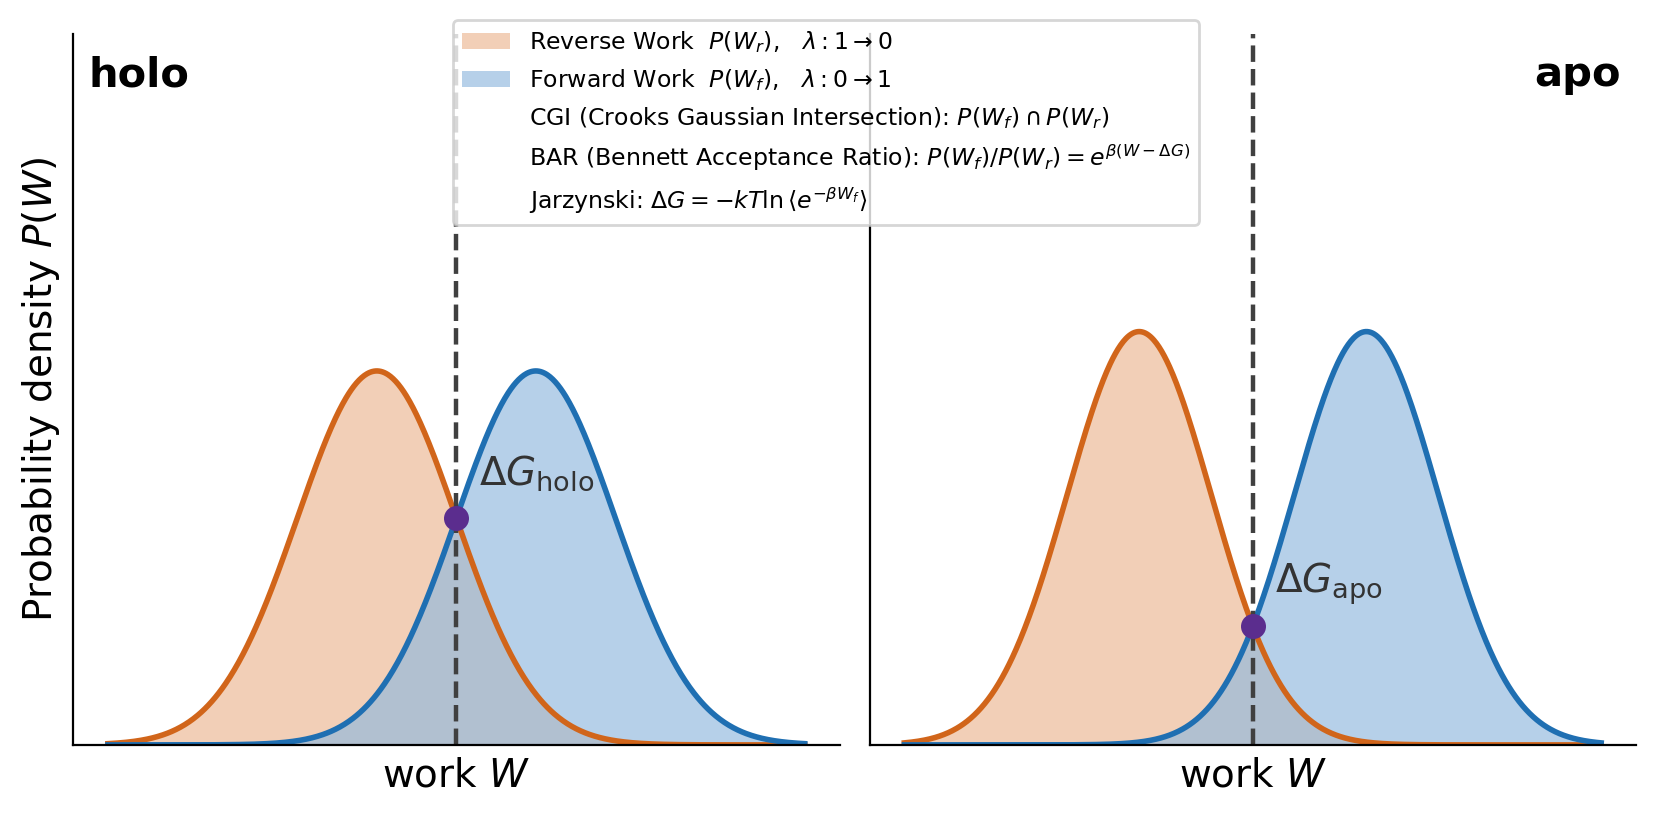
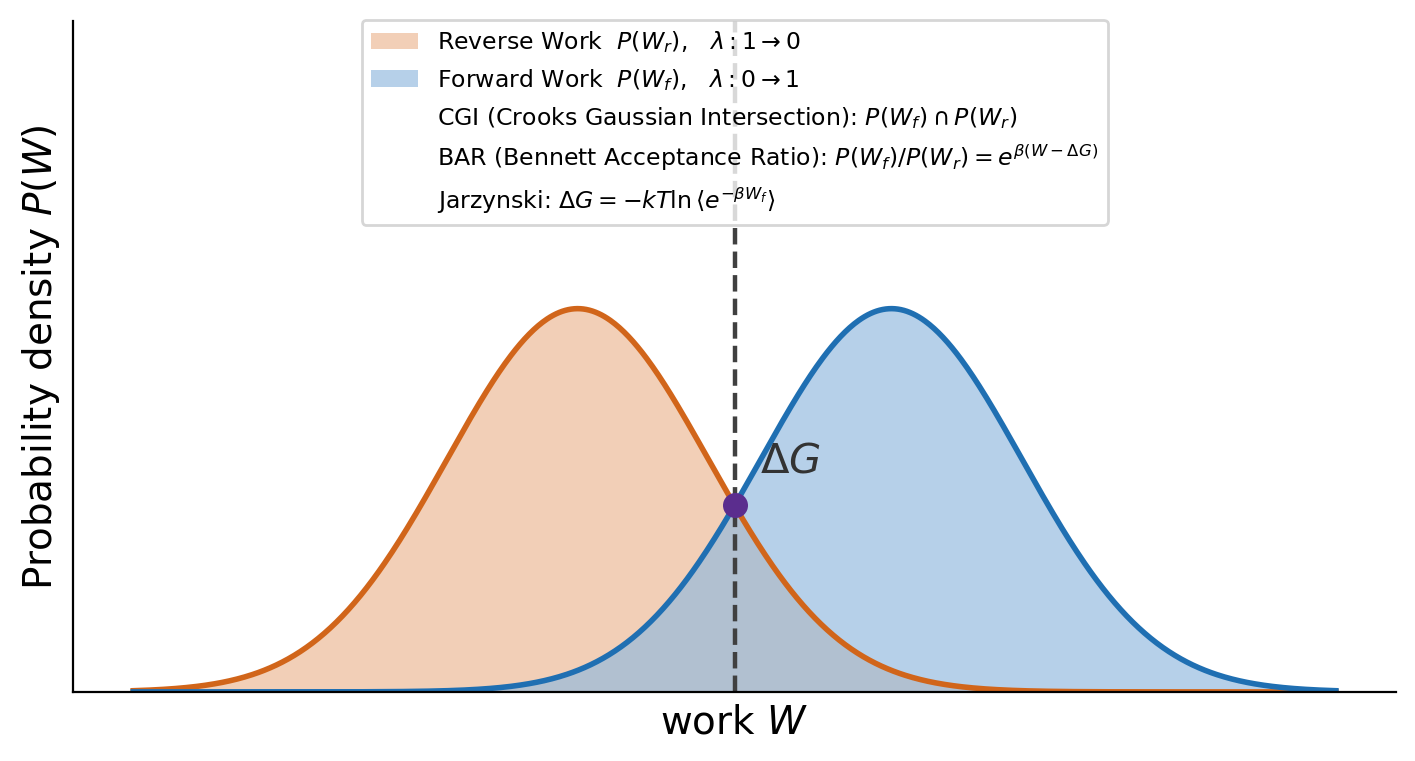
fep_pmx: collapse the work-distribution schematic to a single panel
holo and apo produce the same picture, so two panels were redundant once the panel
titles and the dG subscripts were dropped. The figure now shows what a NEQ leg looks
like generically; figure 01 remains where the holo and apo legs combine into
ddG_bind. 8.4x4.1 -> 7.2x3.9.

diff --git a/scripts/fep_pmx/plot_protocol_schematic.py b/scripts/fep_pmx/plot_protocol_schematic.py
@@ -197,57 +197,48 @@ def _gauss(x, mu, sigma):
 
 
 def plot_work_distributions(out_path: Path) -> None:
-    """Schematic Crooks histograms for holo and apo; estimators as equations.
+    """Schematic Crooks work distributions with the three estimators as equations.
 
-    Replaces the per-genotype 03_neq_work and 05_crooks_overlap figures. Shapes are
-    illustrative: holo is drawn with more forward/reverse overlap than apo, which is
-    the qualitative pattern in the real data, but no values are implied.
+    Replaces the per-genotype 03_neq_work and 05_crooks_overlap figures.
+
+    A SINGLE panel: holo and apo produce the same picture, so drawing both was
+    redundant once the panel titles and the dG subscripts were dropped. The figure
+    shows what a NEQ leg looks like generically; figure 01 is where the holo and apo
+    legs are combined into ddG_bind. Shapes are illustrative -- no values implied.
     """
-    fig, axes = plt.subplots(1, 2, figsize=(8.4, 4.1), sharey=True)
-    specs = [
-        # Titles sit at the OUTER top corner of each panel so the centred legend
-        # cannot cover them.
-        {"ax": axes[0], "title": "holo", "tx": 0.02, "ha": "left",
-         "dg": r"$\Delta G_{\mathrm{holo}}$",
-         "mu_f": 1.05, "mu_r": -1.05, "sig": 1.05},
-        {"ax": axes[1], "title": "apo", "tx": 0.98, "ha": "right",
-         "dg": r"$\Delta G_{\mathrm{apo}}$",
-         "mu_f": 1.5, "mu_r": -1.5, "sig": 0.95},
-    ]
+    fig, ax = plt.subplots(figsize=(7.2, 3.9))
+    mu_f, mu_r, sig = 1.2, -1.2, 1.0
     x = np.linspace(-4.6, 4.6, 800)
-    for sp in specs:
-        ax = sp["ax"]
-        yf = _gauss(x, sp["mu_f"], sp["sig"])
-        yr = _gauss(x, sp["mu_r"], sp["sig"])
-        ax.fill_between(x, yr, color="#e8a87c", alpha=0.55, lw=0, label=r"Reverse Work  $P(W_r)$,   $\lambda: 1 \rightarrow 0$")
-        ax.fill_between(x, yf, color="#8fb8de", alpha=0.65, lw=0, label=r"Forward Work  $P(W_f)$,   $\lambda: 0 \rightarrow 1$")
-        ax.plot(x, yr, color="#d1651a", lw=2.0)
-        ax.plot(x, yf, color="#1f6fb2", lw=2.0)
-        # The three estimators coincide at the crossing when the work is Gaussian;
-        # a single marker keeps the schematic honest rather than implying a spread.
-        ax.axvline(0.0, color="0.25", lw=1.6, ls="--")
-        ax.plot([0.0], [_gauss(0.0, sp["mu_f"], sp["sig"])], "o", color="#5b2d8e",
-                markersize=8, zorder=5)
-        ax.annotate(sp["dg"], (0.0, _gauss(0.0, sp["mu_f"], sp["sig"])),
-                    textcoords="offset points", xytext=(8, 12), fontsize=14,
-                    color="0.2", fontweight="bold")
-        # Headroom so the centred legend clears the curves instead of needing a
-        # whitespace band under the figure.
-        ax.set_ylim(0, _gauss(sp["mu_f"], sp["mu_f"], sp["sig"]) * 1.72)
-        ax.text(sp["tx"], 0.97, sp["title"], transform=ax.transAxes,
-                ha=sp["ha"], va="top", fontweight="bold", fontsize=15)
-        ax.set_xlabel("work $W$", fontsize=14)
-        ax.set_xticks([]); ax.set_yticks([])
-        for side in ("top", "right"):
-            ax.spines[side].set_visible(False)
-    axes[0].set_ylabel("Probability density $P(W)$", fontsize=14)
+    yf = _gauss(x, mu_f, sig)
+    yr = _gauss(x, mu_r, sig)
+    ax.fill_between(x, yr, color="#e8a87c", alpha=0.55, lw=0,
+                    label=r"Reverse Work  $P(W_r)$,   $\lambda: 1 \rightarrow 0$")
+    ax.fill_between(x, yf, color="#8fb8de", alpha=0.65, lw=0,
+                    label=r"Forward Work  $P(W_f)$,   $\lambda: 0 \rightarrow 1$")
+    ax.plot(x, yr, color="#d1651a", lw=2.0)
+    ax.plot(x, yf, color="#1f6fb2", lw=2.0)
 
-    handles, labels = axes[0].get_legend_handles_labels()
+    # The three estimators coincide at the crossing when the work is Gaussian; one
+    # marker keeps the schematic honest rather than implying a spread.
+    ax.axvline(0.0, color="0.25", lw=1.6, ls="--")
+    ax.plot([0.0], [_gauss(0.0, mu_f, sig)], "o", color="#5b2d8e", markersize=8, zorder=5)
+    ax.annotate(r"$\Delta G$", (0.0, _gauss(0.0, mu_f, sig)),
+                textcoords="offset points", xytext=(9, 12), fontsize=15,
+                color="0.2", fontweight="bold")
+
+    ax.set_ylim(0, _gauss(mu_f, mu_f, sig) * 1.75)
+    ax.set_xlabel("work $W$", fontsize=14)
+    ax.set_ylabel("Probability density $P(W)$", fontsize=14)
+    ax.set_xticks([]); ax.set_yticks([])
+    for side in ("top", "right"):
+        ax.spines[side].set_visible(False)
+
+    handles, labels = ax.get_legend_handles_labels()
     blank = plt.Line2D([], [], linestyle="none")
     handles += [blank, blank, blank]
     labels += [EST_CGI, EST_BAR, EST_JARZ]
-    fig.legend(handles, labels, loc="upper center", ncol=1, frameon=True,
-               fontsize=8.5, bbox_to_anchor=(0.5, 0.995))
+    ax.legend(handles, labels, loc="upper center", frameon=True, fontsize=8.5,
+              bbox_to_anchor=(0.5, 1.02))
     fig.tight_layout()
     fig.savefig(out_path, dpi=200, bbox_inches="tight")
     plt.close(fig)
